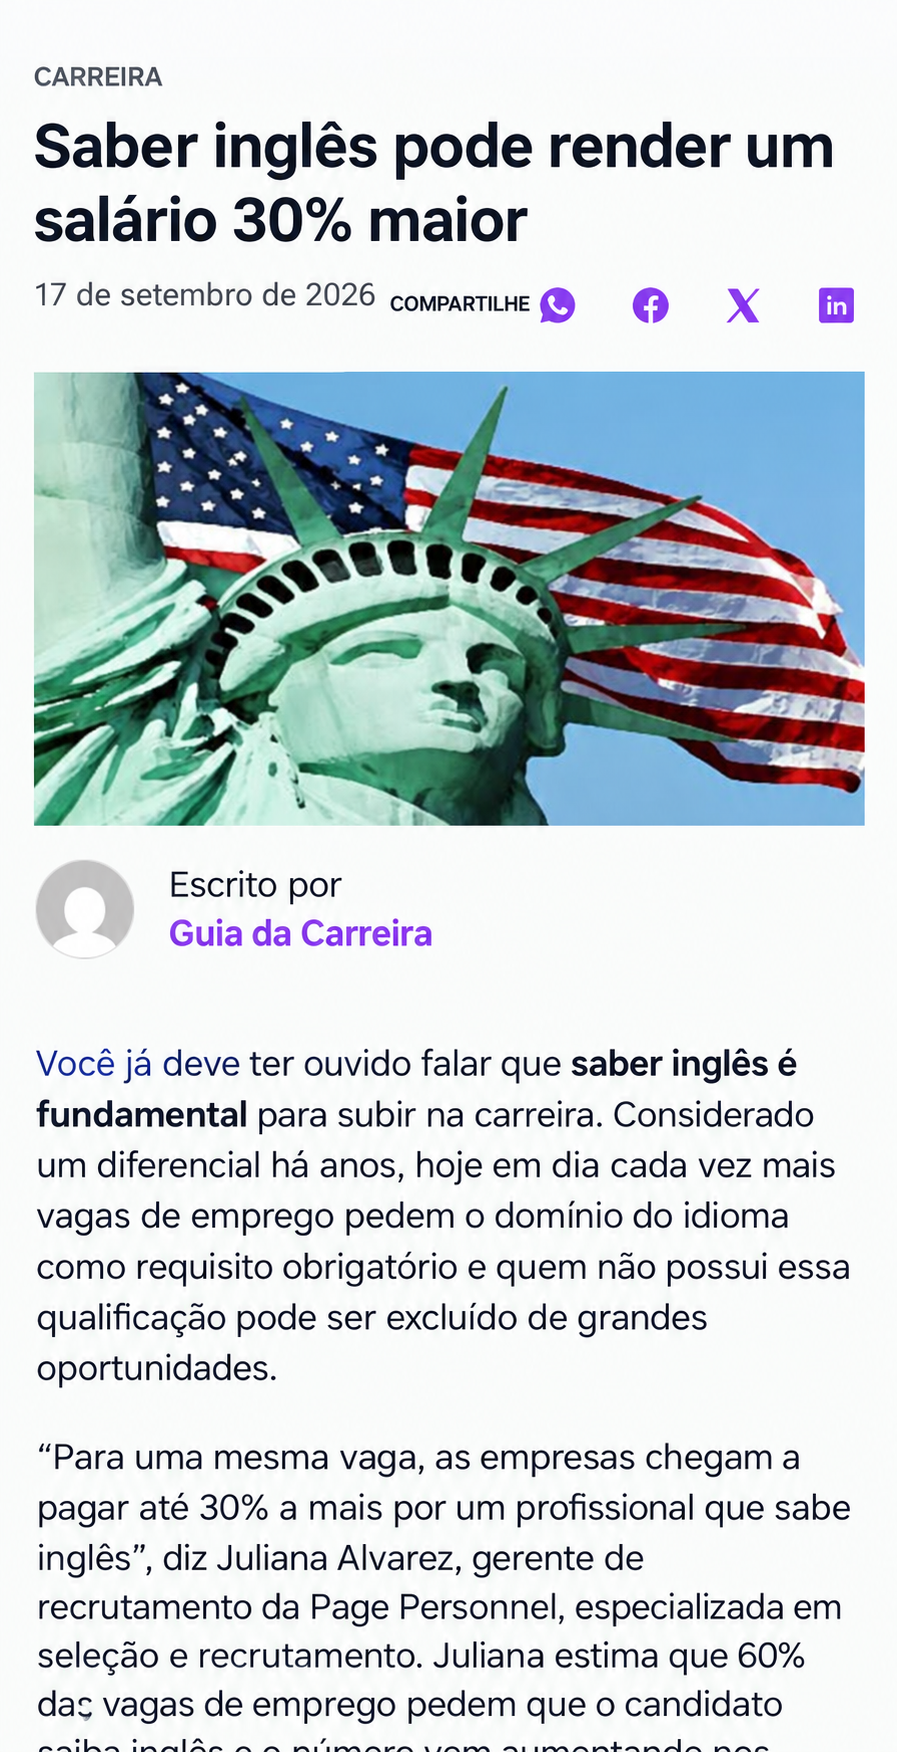
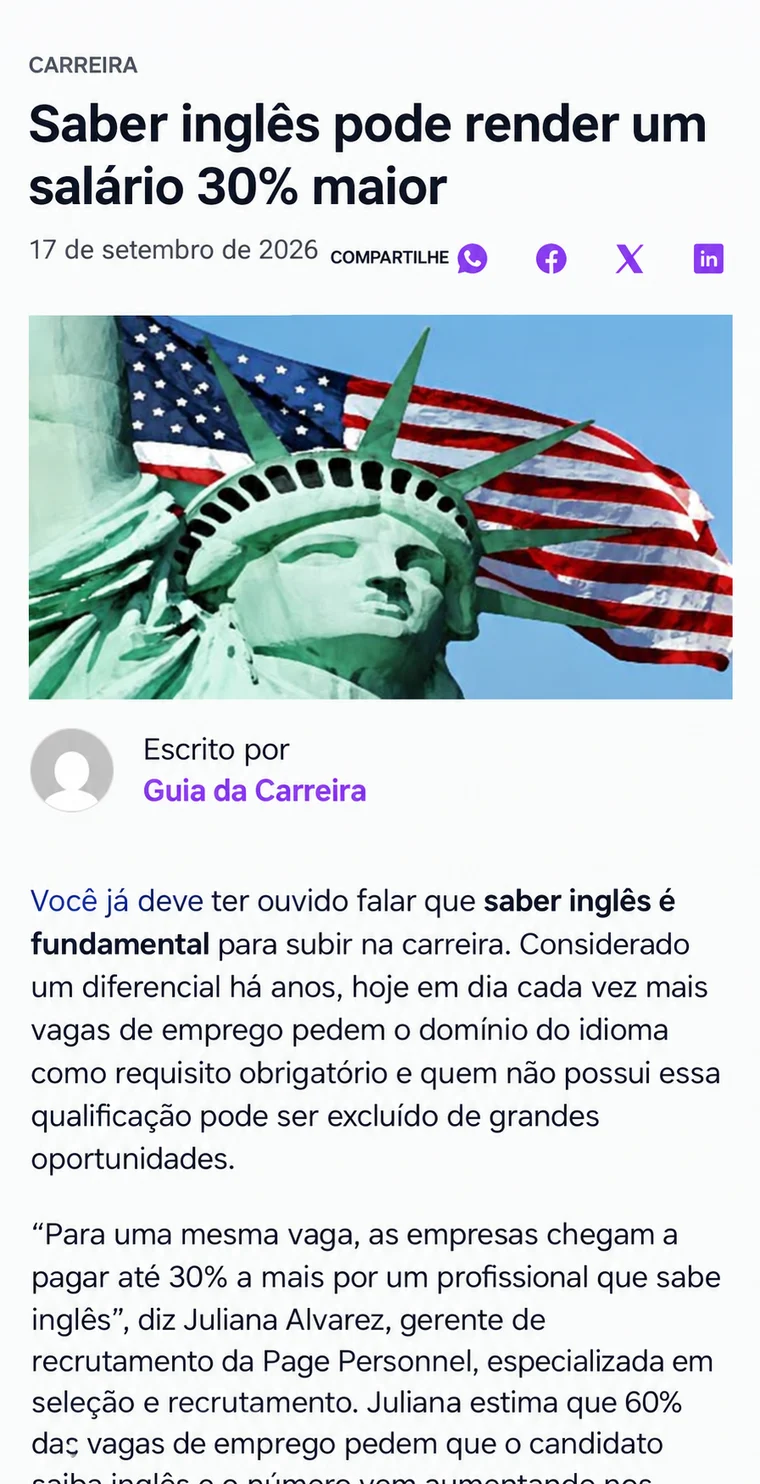
Adcionar arquivos por meio de uploads

Changed region(s): [[0.1816, 0.5889, 0.2118, 0.6199], [0.0908, 0.5889, 0.1211, 0.6199]]

diff --git a/index.html b/index.html
@@ -5,7 +5,7 @@
 <meta name="viewport" content="width=device-width,initial-scale=1">
 <title>Inglês que Abre Portas | Teste grátis de inglês para entrevistas</title>
 <meta name="description" content="Descubra se o seu inglês está pronto para a próxima entrevista ou oportunidade. Teste grátis de 2 minutos com resultado personalizado.">
-<link rel="icon" href="logo.png">
+<link rel="icon" type="image/png" href="assets/logo.png">
 <link href="https://fonts.googleapis.com/css2?family=Inter:wght@400;600;700;800;900&display=swap" rel="stylesheet">
 <!-- Meta Pixel Code -->
 <script>
@@ -774,7 +774,7 @@ INFO,
 const S={flow:[],i:0,score:0,tags:{},res:[],ans:[],br:"A",cur:null};
 
 /* ===== COMPONENTES ===== */
-const head=(back,p)=>`<div class="top">${back?`<button id="bk" aria-label="Voltar">‹</button>`:`<span></span>`}<img src="logo.png" alt="Inglês que Abre Portas" onerror="if(!this.dataset.r){this.dataset.r='1';this.src='assets/logo.png';}"><span></span></div>${p!=null?`<div class="bar"><i style="width:${p}%"></i></div>`:""}`;
+const head=(back,p)=>`<div class="top">${back?`<button id="bk" aria-label="Voltar">‹</button>`:`<span></span>`}<img src="assets/logo.webp" alt="Inglês que Abre Portas" width="44" height="44" decoding="async"><span></span></div>${p!=null?`<div class="bar"><i style="width:${p}%"></i></div>`:""}`;
 const line=`M30,128 C60,122 90,112 130,102 S170,86 210,72 S250,52 270,40 S290,28 298,22`;
 const NODES=[[30,128],[130,102],[210,72],[270,40]],GOAL=[298,22];
 const tip=(x,y,t,d=-34)=>{const w=t.length*6.4+16,tx=Math.min(Math.max(x-w/2,2),318-w);return `<g class="pop"><rect x="${tx}" y="${y+d}" width="${w}" height="22" rx="7" fill="#0b1b3a"/><text x="${tx+w/2}" y="${y+d+15}" text-anchor="middle" font-size="11" font-weight="700" fill="#fff">${t}</text></g>`};
@@ -951,7 +951,7 @@ function bonusHTML(){
 
           <!-- Top Bar -->
           <div class="phone-top-bar">
-            <img src="logo.png" alt="Inglês que Abre Portas" class="phone-logo" onerror="if(!this.dataset.r){this.dataset.r='1';this.src='assets/logo.png';}">
+            <img src="assets/logo.webp" alt="Inglês que Abre Portas" class="phone-logo" width="32" height="32" loading="lazy" decoding="async">
             <div class="phone-stats">
               <span class="phone-pill phone-pill-streak" title="Dias seguidos de estudo">🔥 <span id="p-streak">0</span></span>
               <span class="phone-pill phone-pill-xp" title="Pontos de experiência">⚡ <span id="p-xp">0</span></span>
@@ -1238,7 +1238,7 @@ function step(){
      $.innerHTML=head(1,p)+`<h1>Veja o que dizem os especialistas</h1>
      <p class="c" style="margin-bottom:16px;font-size:15px;line-height:1.4">Segundo uma gerente de recrutamento, empresas chegam a pagar até 30% a mais por quem sabe inglês.</p>
      <div class="card-social-img">
-       <img src="assets/prova-social-guia-da-carreira.webp" width="592" height="1156" alt="Trecho da matéria 'Saber inglês pode render um salário 30% maior', do Guia da Carreira, de 17 de setembro de 2026." decoding="async" onerror="if(!this.dataset.r){this.dataset.r='1';this.src='prova-social-guia-da-carreira.webp';}">
+       <img src="assets/prova-social-guia-da-carreira.webp" width="760" height="1484" alt="Trecho da matéria 'Saber inglês pode render um salário 30% maior', do Guia da Carreira, de 17 de setembro de 2026." loading="lazy" decoding="async">
      </div>
      <p class="small c social-caption">Fonte: Guia da Carreira, 17/09/2026. Referência de mercado: o domínio do inglês pode gerar valorização salarial de até 30%, conforme a área, experiência e empresa.</p>
      <p class="c social-bridge">Fluência leva tempo. O primeiro passo é o básico.</p>
@@ -1254,7 +1254,7 @@ function step(){
       <div class="insight"><b>Com base no que você respondeu até aqui, já conseguimos identificar um padrão.</b> Mas faltam algumas perguntas para confirmar onde está o ponto exato que pode destravar o seu inglês.<br><span style="font-size:13px;color:var(--mut)">O diagnóstico completo depende das próximas respostas — e o resultado pode te surpreender.</span></div>
       <h2 style="font-size:22px;text-align:center;margin:22px 0 12px;letter-spacing:-.02em">Isso já aconteceu com <span class="red">você</span>?</h2>
       <div class="video-box" id="vBox">
-        <video id="vCard" src="${CFG.VIDEO_URL}" poster="${CFG.VIDEO_POSTER||'assets/capa-video.webp'}" playsinline preload="auto"></video>
+        <video id="vCard" src="${CFG.VIDEO_URL}" poster="${CFG.VIDEO_POSTER||'assets/capa-video.webp'}" playsinline preload="metadata"></video>
         <button type="button" class="video-play-btn" id="vPlayBtn" aria-label="Dar o play no vídeo com áudio">
           <svg viewBox="0 0 24 24" fill="currentColor"><path d="M8 5v14l11-7z"/></svg>
         </button>
@@ -1280,11 +1280,11 @@ function step(){
      <div class="opt-age-photos">
        <div class="opt-age-img-wrap">
          <div class="opt-age-ph" aria-hidden="true"><span class="opt-age-ph-ic">${s.ic[k]}</span></div>
-         <img src="assets/${img1}" alt="${alt}" width="200" height="250" decoding="async"${isLazy?' loading="lazy"':''} onerror="if(!this.dataset.r){this.dataset.r='1';this.src=this.src.replace('assets/','');}else{this.style.display='none';this.parentElement.classList.add('ph');}">
+         <img src="assets/${img1}" alt="${alt}" width="200" height="250" decoding="async"${isLazy?' loading="lazy"':''} onerror="this.style.display='none';this.parentElement.classList.add('ph');">
        </div>
        <div class="opt-age-img-wrap">
          <div class="opt-age-ph" aria-hidden="true"><span class="opt-age-ph-ic">${s.ic[k]}</span></div>
-         <img src="assets/${img2}" alt="${alt}" width="200" height="250" decoding="async"${isLazy?' loading="lazy"':''} onerror="if(!this.dataset.r){this.dataset.r='1';this.src=this.src.replace('assets/','');}else{this.style.display='none';this.parentElement.classList.add('ph');}">
+         <img src="assets/${img2}" alt="${alt}" width="200" height="250" decoding="async"${isLazy?' loading="lazy"':''} onerror="this.style.display='none';this.parentElement.classList.add('ph');">
        </div>
      </div>
      <div class="opt-age-bottom">
